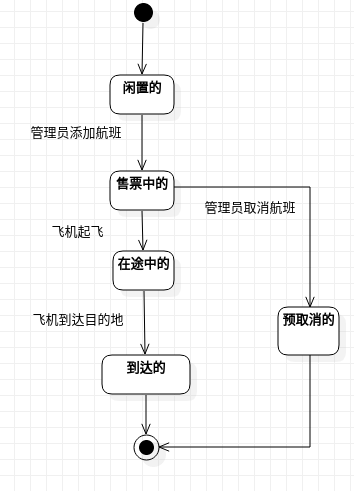
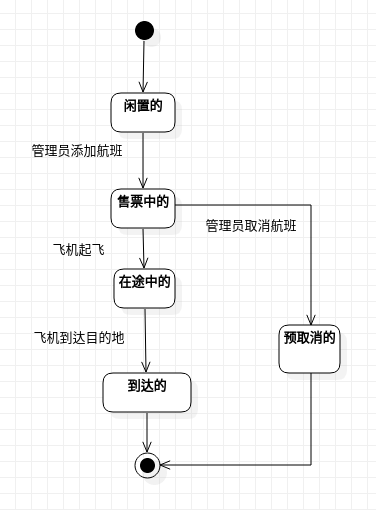
Update lab7.md

Changed region(s): [[0.0621, 0.0, 0.9633, 0.947]]

diff --git a/students/1714080901141/lab7.md b/students/1714080901141/lab7.md
@@ -53,6 +53,11 @@
 
 (3). 写出状态之间的转变触发方式，注意方向。
 
+1.2.4 常见问题：
+- 区分转变的签名与转变的条件：转变的签名是一个动作，转变的条件是动作结果的一种情况。
+- “不存在”的状态是指：在系统中没有这样的状态了的。“相同”的状态是指：属性的数据完全相同。
+- 搞清楚状态图画的是什么：操作也有状态，但不重要；要画的是重要对象（Model）的状态图。
+
 #### 2. 确定核心要素
 
 2.1 确定几个重要的对象：
@@ -64,8 +69,8 @@
 - 待付款的、已付款的、已出票的、待取消的和已退款的订单。
 
 2.3 确定对象的状态之间的关键转换条件：
-- 闲置的航班转变为售票中的航班，是通过管理员添加航班的；售票中的航班转换为取消的航班，是通过管理员取消航班。
-- 已出售的订票为待取消的是通过管理员取消航班；待取消的订单转换为已退票的是通过触发退款业务。
+- 闲置的航班转变为售票中的航班，是通过管理员添加航班的；售票中的航班转换为预取消的航班，是通过管理员取消航班。
+- 已付款的订单是转变为待取消的订单，是通过客户退票或管理员取消对应航班；已出票的订票转变为待取消的，是通过管理员取消对应航班；待取消的订单转换为已退票的，是通过系统触发退款业务。
 
 ## 四、实验结果
 
